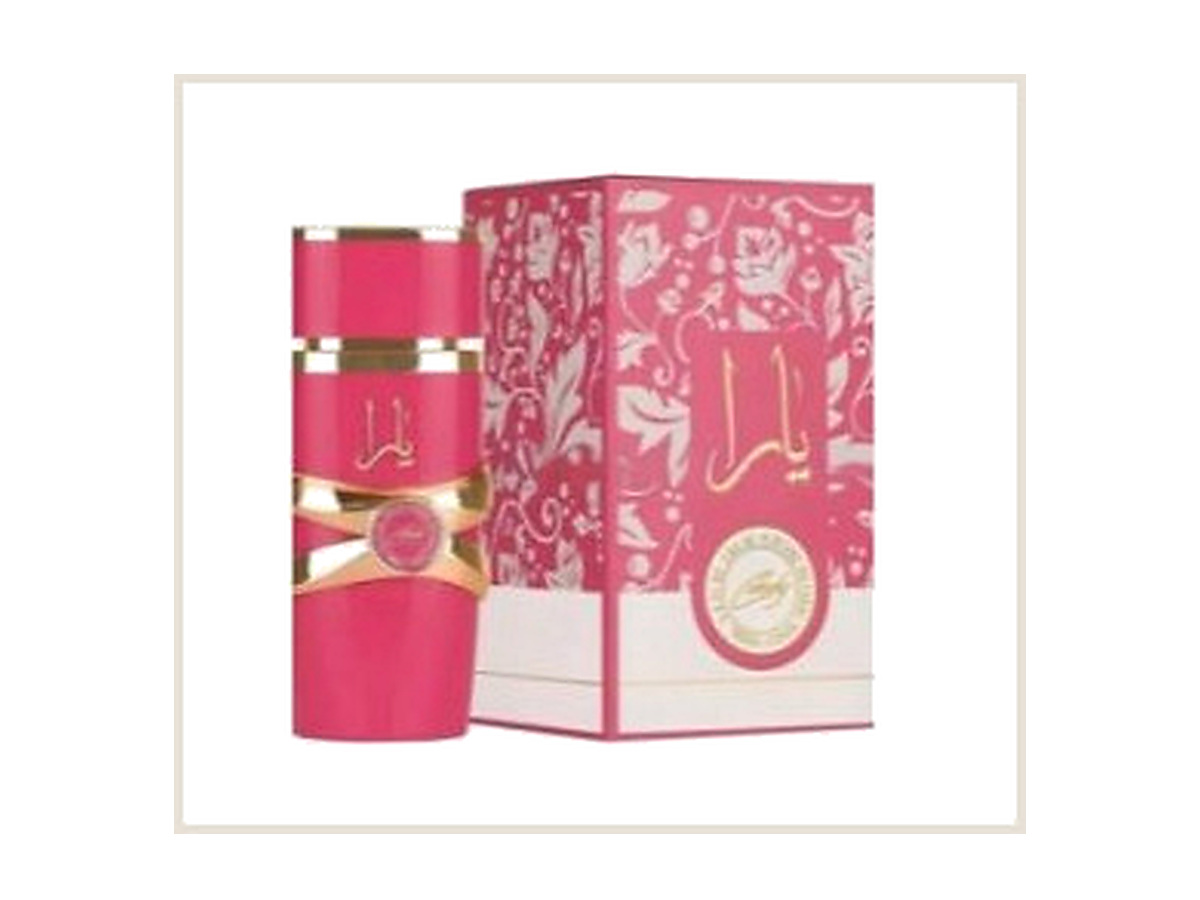
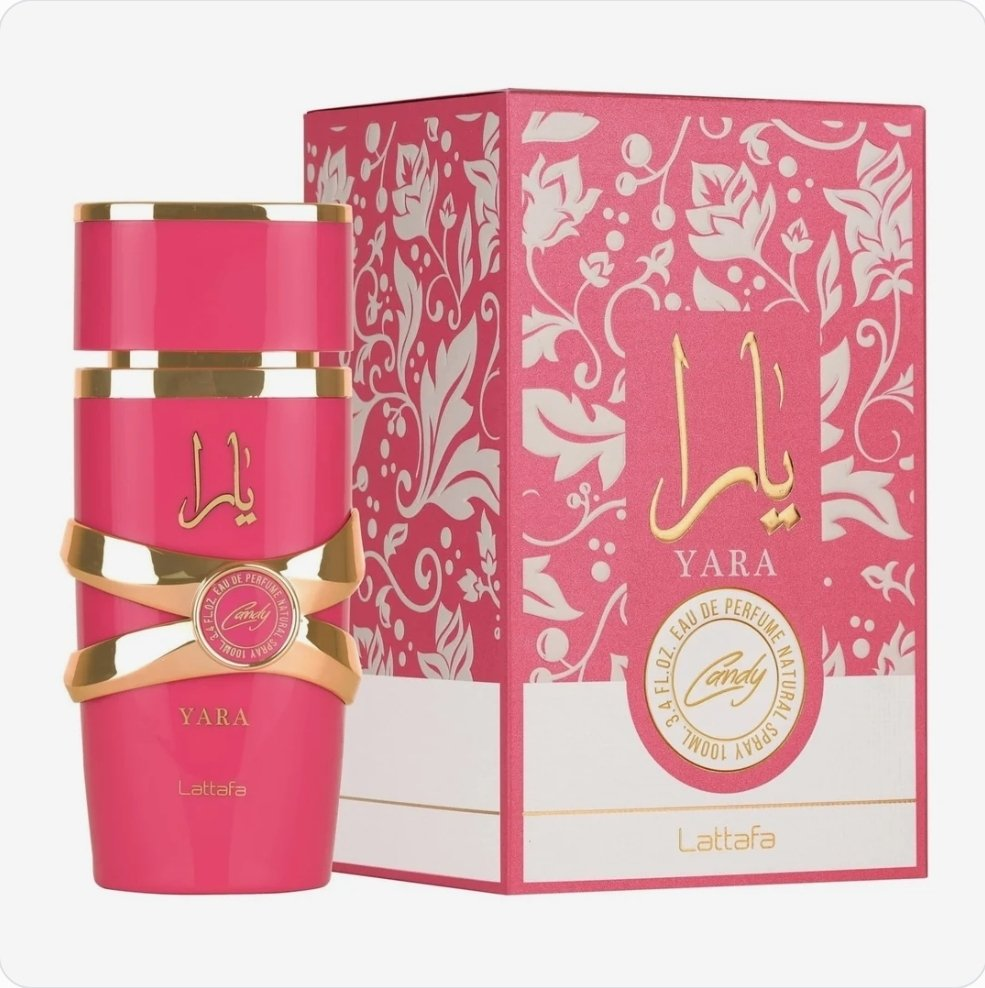
Replace Lattafa Yara Candy photos with Boss's new shots

diff --git a/index.html b/index.html
@@ -708,7 +708,7 @@
         { name:'Al Haramain Amber Oud Gold Edition Perfume for Unisex', niche:'Al Haramain · Unisex · 2.0 oz EDP', direction:'Sweet fruits, vanilla and clean musk', description:'A bright, juicy fruit accord glides into creamy vanilla, amber and clean musk. Radiant and attention-grabbing, with a sweet unisex signature.', category:'sweet', images:[{src:'assets/product-al-haramain-amber-oud-gold.jpg', alt:'Al Haramain Amber Oud Gold Edition gold bottle on a clean white background'},{src:'assets/product-al-haramain-amber-oud-gold-2.jpg', alt:'Al Haramain Amber Oud Gold Edition bottle and box on a clean white background'}], price:49, decantPrice:12, originalPrice:68, featured:17 , paymentLink:'https://buy.stripe.com/5kQbJ32QxbEg2lI0i7f7i1n'},
         { name:'Lattafa Asad Bourbon Perfume for Unisex', niche:'Lattafa · Unisex · 3.4 oz EDP', direction:'Plum, spice and smooth vanilla woods', description:'Rich plum and warm spice open into a smooth blend of cacao-toned sweetness, vanilla and woods. Deep and inviting without feeling overly heavy.', category:'amber', images:[{src:'assets/product-lattafa-asad-bourbon.jpg', alt:'Lattafa Asad Bourbon bottle in a styled amber and vanilla composition'},{src:'assets/product-lattafa-asad-bourbon-2.jpg', alt:'Lattafa Asad Bourbon bottle close-up on a neutral background'},{src:'assets/product-lattafa-asad-bourbon-3.jpg', alt:'Lattafa Asad Bourbon bottle with amber stones'},{src:'assets/product-lattafa-asad-bourbon-4.jpg', alt:'Lattafa Asad Bourbon bottle on a marble counter'}], price:34, decantPrice:9, originalPrice:40, featured:18 , paymentLink:'https://buy.stripe.com/eVq00l9eV5fSf8u8ODf7i1i'},
         { name:'Lattafa Khamrah Qahwa Perfume for Unisex', niche:'Lattafa · Unisex · 3.4 oz EDP', direction:'Coffee, cinnamon and vanilla praline', description:'Roasted coffee and warming spice enrich a sweet base of vanilla and praline. Dense, cozy and deliciously bold for cooler days and late nights.', category:'sweet', images:[{src:'assets/product-lattafa-khamrah-qahwa.jpg', alt:'Lattafa Khamrah Qahwa bottle in a styled coffee and spice composition'},{src:'assets/product-lattafa-khamrah-qahwa-2.jpg', alt:'Lattafa Khamrah Qahwa bottle with fragrance notes breakdown graphic'}], price:37, decantPrice:9, originalPrice:46, featured:19 , paymentLink:'https://buy.stripe.com/4gM00laiZ37K3pM8ODf7i1j'},
-        { name:'Lattafa Yara Candy Perfume for Women', niche:'Lattafa · Women · 3.4 oz EDP', direction:'Juicy berries, vanilla and caramel', description:'A playful burst of juicy berries settles into creamy vanilla and soft caramel sweetness. Bright, cheerful and easy to wear when you want something fun.', category:'sweet', images:[{src:'assets/product-lattafa-yara-candy.jpg', alt:'Lattafa Yara Candy bottle and pink box — clean packshot'},{src:'assets/gallery-lattafa-yara-candy-1.jpg', alt:'Lattafa Yara Candy Perfume for Women — customer photo 1'},{src:'assets/gallery-lattafa-yara-candy-2.jpg', alt:'Lattafa Yara Candy Perfume for Women — customer photo 2'},{src:'assets/gallery-lattafa-yara-candy-3.jpg', alt:'Lattafa Yara Candy Perfume for Women — customer photo 3'}], price:29, decantPrice:7, originalPrice:34, featured:20 , paymentLink:'https://buy.stripe.com/cNi7sN62JcIkgcyc0Pf7i1k'},
+        { name:'Lattafa Yara Candy Perfume for Women', niche:'Lattafa · Women · 3.4 oz EDP', direction:'Juicy berries, vanilla and caramel', description:'A playful burst of juicy berries settles into creamy vanilla and soft caramel sweetness. Bright, cheerful and easy to wear when you want something fun.', category:'sweet', images:[{src:'assets/product-lattafa-yara-candy.jpg', alt:'Lattafa Yara Candy pink bottle and box on a clean white background'},{src:'assets/gallery-lattafa-yara-candy-1.jpg', alt:'Lattafa Yara Candy bottle in a styled candy composition'},{src:'assets/gallery-lattafa-yara-candy-2.jpg', alt:'Lattafa Yara Candy pink bottle on a clean white background'}], price:29, decantPrice:7, originalPrice:34, featured:20 , paymentLink:'https://buy.stripe.com/cNi7sN62JcIkgcyc0Pf7i1k'},
         { name:'Dolce & Gabbana Light Blue Cologne for Men', niche:'Dolce & Gabbana · Men · 4.2 oz EDT', direction:'Crisp citrus, aromatic herbs and clean woods', description:'A bright Mediterranean-style blend of citrus and fresh aromatics settles into a clean, lightly woody base. Easygoing and refreshing for warm days.', category:'fresh', images:[{src:'assets/product-dolce-gabbana-light-blue.jpg', alt:'Dolce & Gabbana Light Blue Pour Homme bottle and box on a clean white background'},{src:'assets/product-dolce-gabbana-light-blue-2.jpg', alt:'Dolce & Gabbana Light Blue Pour Homme bottle on a clean white background'}], price:68, decantPrice:17, originalPrice:80, featured:21 , paymentLink:'https://buy.stripe.com/aFa7sNaiZeQs5xU6Gvf7i0M'},
         { name:'Rasasi Hawas Ice Cologne for Men', niche:'Rasasi · Men · 3.38 oz EDP', direction:'Icy citrus, fruit and amber woods', description:'Cool citrus and juicy fruit create an energetic opening, followed by aromatic warmth and smooth amber woods. Fresh, modern and made to project.', category:'fresh', images:[{src:'assets/product-rasasi-hawas-ice.jpg', alt:'Rasasi Hawas Ice blue bottle and box on a clean white background'},{src:'assets/product-rasasi-hawas-ice-2.jpg', alt:'Rasasi Hawas Ice blue bottle on a clean white background'},{src:'assets/product-rasasi-hawas-ice-3.jpg', alt:'Rasasi Hawas Ice bottle with fragrance notes breakdown graphic'}], price:55, decantPrice:14, originalPrice:68, featured:22 , paymentLink:'https://buy.stripe.com/4gMfZjdvb7o08K68ODf7i13'},
         { name:'Yves Saint Laurent Myslf Cologne for Men', niche:'Yves Saint Laurent · Men · 3.4 oz EDP', direction:'Bright citrus, orange blossom and woods', description:'Sparkling citrus meets a clean orange-blossom heart and a warm woody finish. Polished and versatile, with a contemporary dressed-up feel.', category:'fresh', images:[{src:'assets/product-ysl-myslf.jpg', alt:'Yves Saint Laurent Myslf black bottle on a clean white background'},{src:'assets/gallery-ysl-myslf-1.jpg', alt:'Yves Saint Laurent Myslf bottle with woods and orange blossom accords graphic'},{src:'assets/gallery-ysl-myslf-2.jpg', alt:'Yves Saint Laurent Myslf bottle and black box on a clean white background'}], price:125, decantPrice:31, originalPrice:145, featured:23 , paymentLink:'https://buy.stripe.com/fZu7sNfDj8s49Oa3ujf7i0R'},
